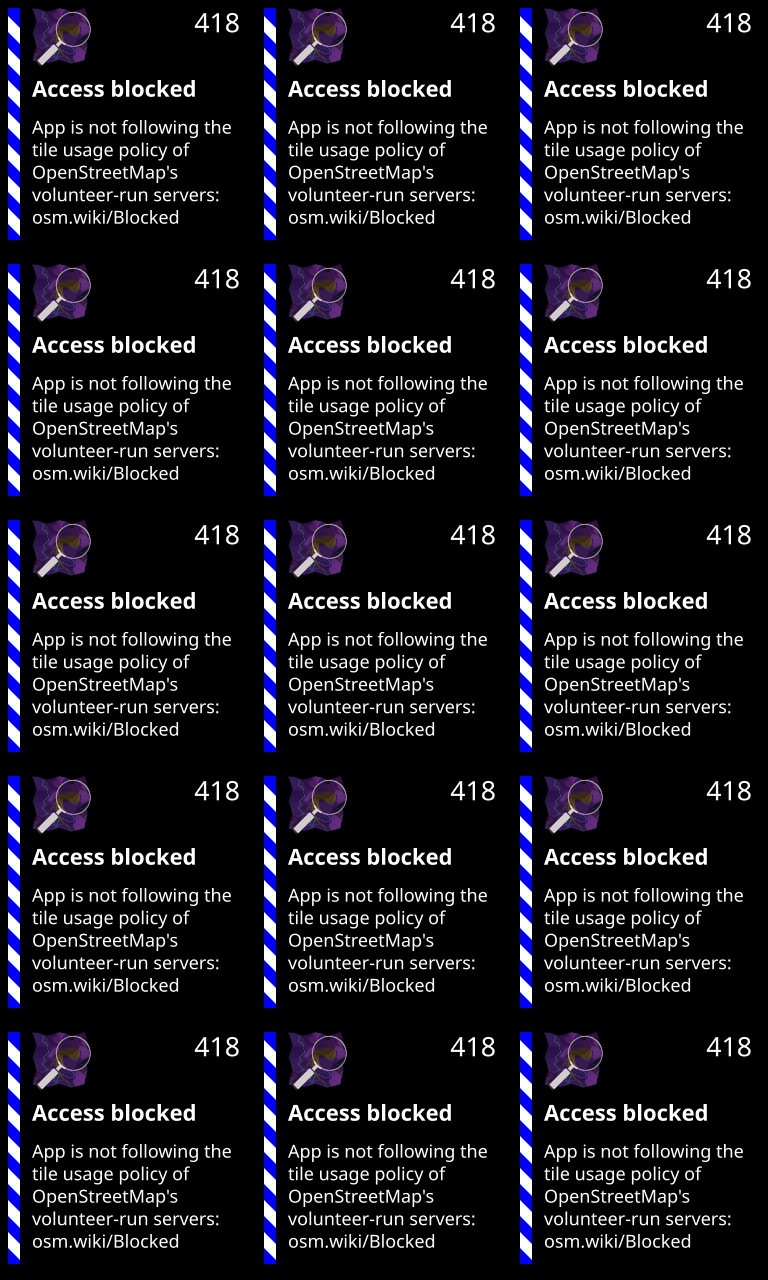
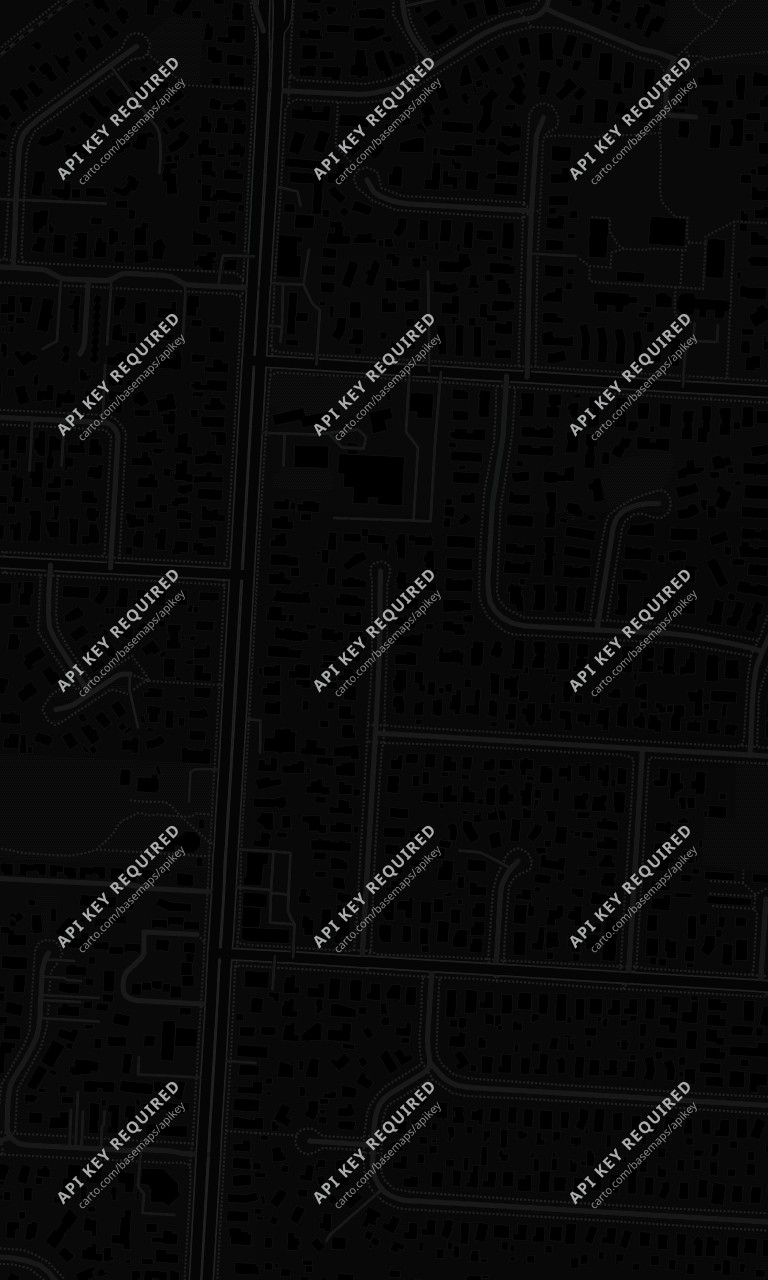
Fix map generation: use real CartoDB tiles to prevent OSM access blocked tile

diff --git a/generate_map.py b/generate_map.py
@@ -35,24 +35,20 @@ full_img = Image.new('RGB', (width_tiles * 256, height_tiles * 256))
 
 for x in range(x_min, x_max + 1):
     for y in range(y_min, y_max + 1):
-        url = f"https://tile.openstreetmap.org/{zoom}/{x}/{y}.png"
+        url = f"https://a.basemaps.cartocdn.com/dark_nolabels/{zoom}/{x}/{y}.png"
         filename = f"/tmp/tile_{x}_{y}.png"
-        req = urllib.request.Request(url, headers={'User-Agent': 'Mozilla/5.0'})
+        req = urllib.request.Request(url, headers={'User-Agent': 'CoastersTavernBusBoard/1.0 (admin@coasterstavern.co.nz)'})
         try:
             with urllib.request.urlopen(req) as response, open(filename, 'wb') as out_file:
                 out_file.write(response.read())
             
-            img = Image.open(filename)
+            img = Image.open(filename).convert('RGB')
             full_img.paste(img, ((x - x_min) * 256, (y - y_min) * 256))
             os.remove(filename)
         except Exception as e:
             print(f"Error fetching {url}: {e}")
 
-# Apply dark mode filter (invert and desaturate a bit maybe?)
-# Let's just invert for a dark theme look.
-full_img = ImageOps.invert(full_img)
-
-# Save the final image
+# Save the final image directly (already dark theme)
 full_img.save('/run/media/zeus/6TB-1/__GITHUB NUC/_ct-TRIP/map_bg.jpg', quality=90)
 
 # Calculate exactly what bounds this image represents
